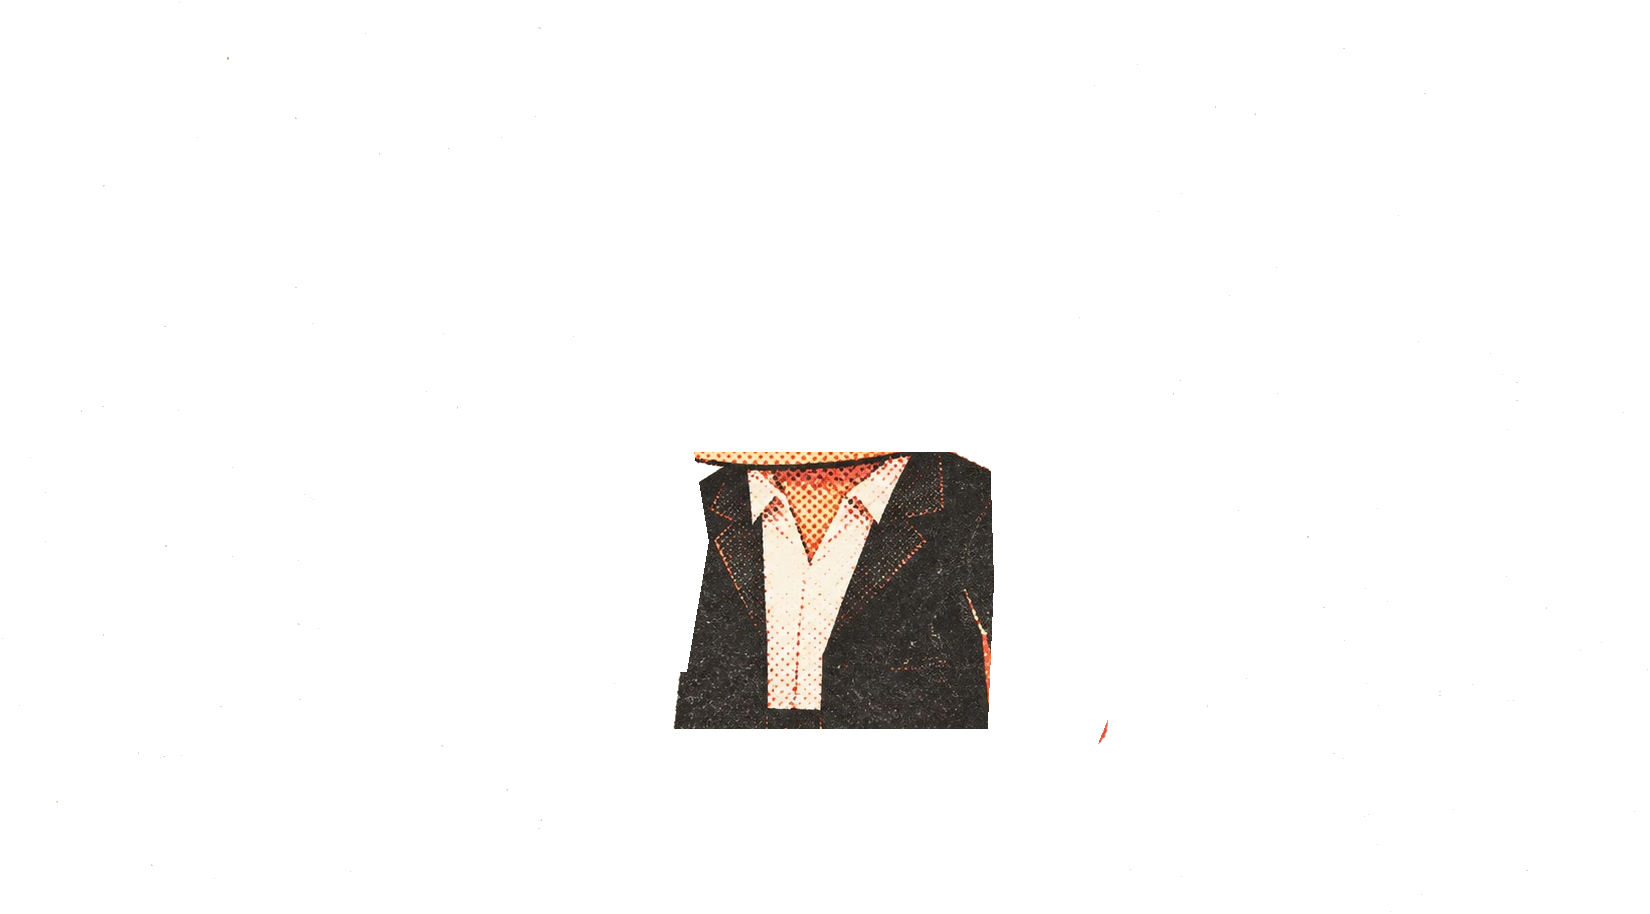
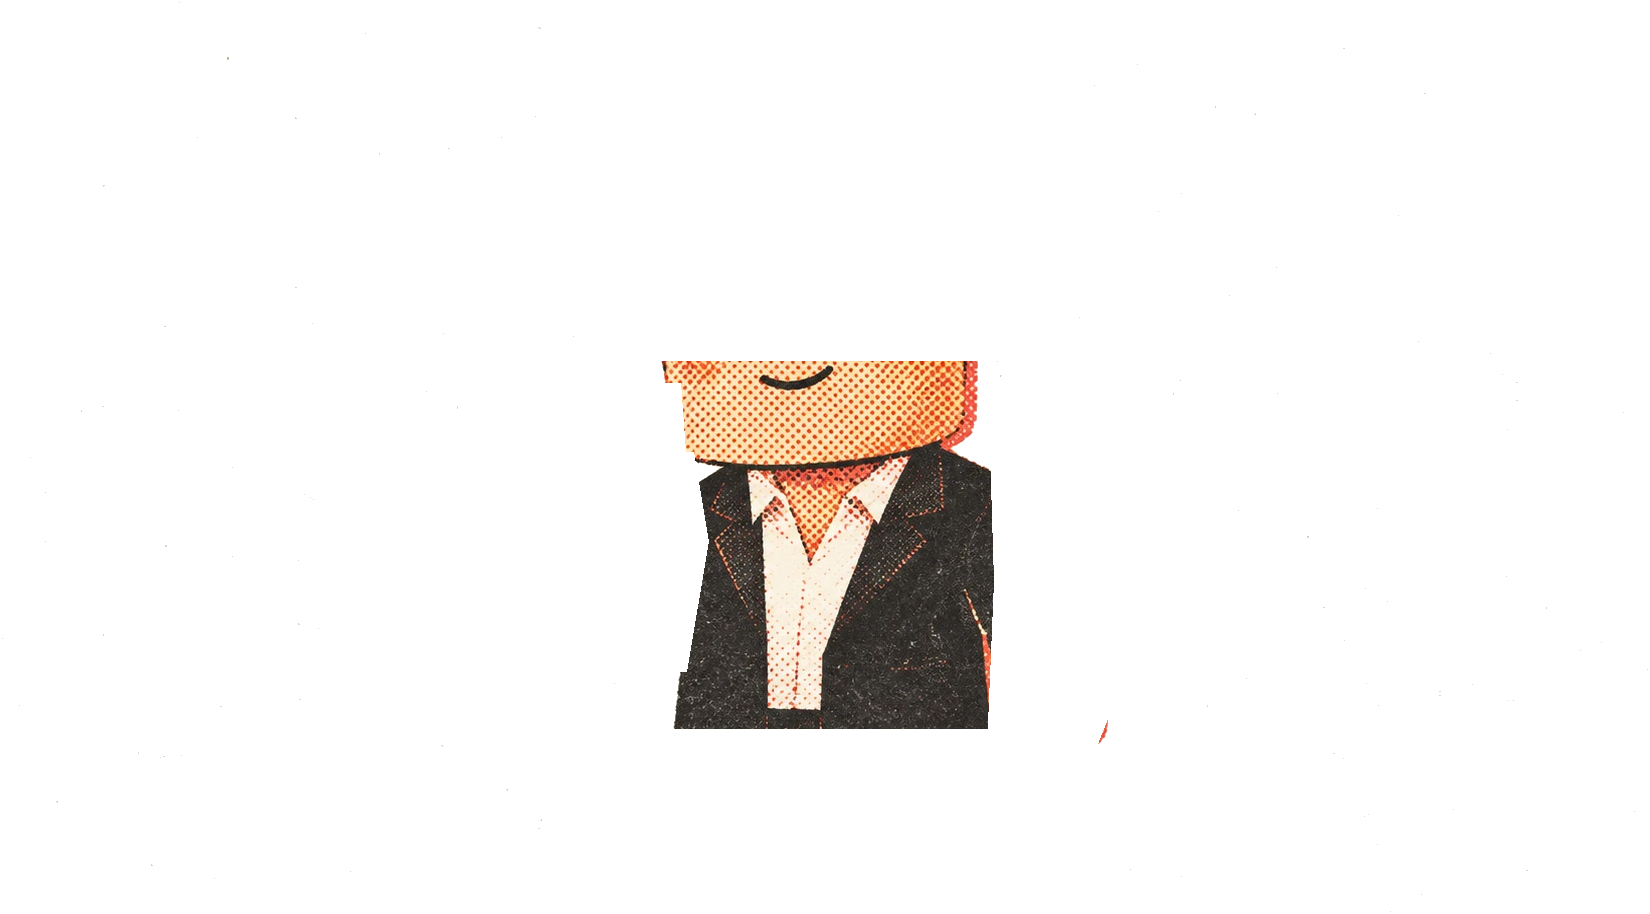
Fix see-through neck on the Jeff and Scammer puppets; lengthen the quiz
The torso parts now carry a hidden copy of the chin under the head, so a
head tilt no longer opens a slit along the cut (about 1,100 and 1,700
see-through pixels at the largest tilt, now 0); other parts unchanged.
The quiz moves to 7-bar rounds (flags every two beats, two-bar
takeaways, each phone slides in on its own beat): 58.75 s.

Claude-Session: https://claude.ai/code/session_011fNdEZx6swNX1pB5mU49YZ

Changed region(s): [[0.4018, 0.3676, 0.6182, 0.5208]]

diff --git a/intro/quiz.js b/intro/quiz.js
@@ -1,18 +1,19 @@
 'use strict';
-/* Rossen Reports: "SCAM OR LEGIT?" quiz. 42.5 s, 1080x1920 (9:16), 24 fps, one shot. Case-file screen-print look
+/* Rossen Reports: "SCAM OR LEGIT?" quiz. 58.75 s, 1080x1920 (9:16), 24 fps, one shot. Case-file screen-print look
    (printkit.js, the approved blue/black/cream/yellow inks) with the vertical kit (vertkit.js). 96 BPM, one idea per bar.
-   Each round is 5 bars: SHOW (1), PAUSE with a countdown (2), REVEAL: stamp + flags (1), TAKEAWAY (1).
+   Each round is 7 bars: SHOW (1; the phone slides in on beat 1), PAUSE with a countdown (2), REVEAL: the verdict on
+   beat 1 and a flag every two beats (2), TAKEAWAY (2).
 
-   bars 0-4    round 1  SCAM   unpaid toll text        flags PAY TODAY, SMALL FEE, LINK
-   bars 5-9    round 2  LEGIT  verification code       reasons YOU ASKED FOR IT, NO LINK, NO REQUEST
-   bars 10-14  round 3  SCAM   fraud alert, reply Y/N  flags URGENT, REPLY YES OR NO
-   bar 15-16   HOW MANY DID YOU GET RIGHT? COMMENT YOUR SCORE.; the rubber stamp lands on bar 16 beat 3
-   the official logo, untouched, still from 41.40 to 42.5
-   The phone never moves while there is something to read; it slides between rounds on the last beat of each round.
+   bars 0-6    round 1  SCAM   unpaid toll text        flags PAY TODAY, SMALL FEE, LINK
+   bars 7-13   round 2  LEGIT  verification code       reasons YOU ASKED FOR IT, NO LINK, NO REQUEST
+   bars 14-20  round 3  SCAM   fraud alert, reply Y/N  flags URGENT, REPLY YES OR NO
+   bars 21-22  the last phone slides out; HOW MANY DID YOU GET RIGHT?, the answers, COMMENT YOUR SCORE: 0, 1, 2 OR 3?
+   bar 23      the rubber stamp lands on beat 1; the official logo, untouched, still from 57.65 to 58.75
+   The phone never moves while there is something to read.
 */
-const DUR = at(17), NFR = Math.round(FPS * DUR);
+const DUR = at(23, 3), NFR = Math.round(FPS * DUR);
 const CAPS = [];   // this film draws its own top band
-const STAMP_T = at(16, 3);
+const END_B = 21, STAMP_T = at(23);
 
 // ================= the rounds =================
 const LINK = 'htp://tol1-pay.zz/b1ll?7x';   // obviously garbled, not a real address
@@ -21,16 +22,16 @@ const ROUNDS = [
     lines: ['Your vehicle has an', 'unpaid toll balance of', '$6.99. Pay today to', 'avoid late fees:', LINK],
     marks: [{ l: 2, s: 'Pay today', tag: 'PAY TODAY' }, { l: 2, s: '$6.99', tag: 'SMALL FEE' }, { l: 4, s: LINK, tag: 'LINK' }],
     take: ["DON'T CLICK.", 'CHECK YOUR TOLL', 'ACCOUNT YOURSELF.'] },
-  { b: 5, scam: false, from: 'Text Message',
+  { b: 7, scam: false, from: 'Text Message',
     lines: ['Your verification code', "is 482913. Don't share", 'this code with anyone.', ''],
     marks: [{ l: 1, s: '482913', tag: 'YOU ASKED FOR IT' }, { l: 3, s: null, tag: 'NO LINK' }, { l: 2, s: 'this code with anyone.', tag: 'NO REQUEST' }],
     take: ['NEVER READ A CODE', 'TO ANYONE WHO CALLS.'] },
-  { b: 10, scam: true, from: 'Account Alert',
+  { b: 14, scam: true, from: 'Account Alert',
     lines: ['FRAUD ALERT: $750', 'payment attempt.', 'Was this you?', 'Reply YES or NO.'],
     marks: [{ l: 0, s: 'FRAUD ALERT:', tag: 'URGENT' }, { l: 3, s: 'Reply YES or NO.', tag: 'REPLY YES OR NO' }],
     take: ["DON'T REPLY.", 'CALL THE NUMBER', 'ON YOUR CARD.'] },
 ];
-const R_SHOW = 0, R_PAUSE = 1, R_REVEAL = 3, R_TAKE = 4;   // bar offsets inside a round
+const R_SHOW = 0, R_PAUSE = 1, R_REVEAL = 3, R_TAKE = 5;   // bar offsets inside a round
 
 // ================= the phone =================
 const PH = { x: 100, y: 640, w: 760, h: 600 };
@@ -60,7 +61,7 @@ function markBox(c, R, m) {
   const sz = lineFit(c, s); c.font = `${sz}px ${FONT}`; const i = s.indexOf(m.s), x0 = c.measureText(s.slice(0, i)).width, x1 = x0 + c.measureText(m.s).width;
   return { x: BUB.x + BUB.pad + (x0 + x1) / 2, y, w: x1 - x0, h: sz };
 }
-function markT(R, i) { return at(R.b + R_REVEAL) + (i + 1) * BEAT; }
+function markT(R, i) { return at(R.b + R_REVEAL) + (i + 1) * 2 * BEAT; }   // beat 3, then beats 1 and 3 of the next bar
 function highlights(c, R, t) {   // a marker swiped left to right behind each flagged phrase, on its beat
   R.marks.forEach((m, i) => { if (!m.s) return; const u = easeOut(seg(t, markT(R, i) - SLAM, markT(R, i) + .12)); if (u <= 0) return;
     const b = markBox(c, R, m), x0 = b.x - b.w / 2 - 10, w = (b.w + 20) * u, y0 = b.y - b.h * .62, h = b.h * 1.2;
@@ -105,7 +106,7 @@ function scorecard(c, t, cur, y = 350, big = 1.22, t0 = -1) {
 // reveal the right one lights up and takes the stamp while the wrong one dims under an X
 const PAD = { y: 482, w: 330, h: 124, x: [SCX - 225, SCX + 225] };
 function pads(c, t, R, rn) {
-  const b = R.b, tp = at(b + R_PAUSE), tl = at(b + R_PAUSE + 1, 4), tr = at(b + R_REVEAL), shown = rn === 0 ? -1 : at(b) + E8;
+  const b = R.b, tp = at(b + R_PAUSE), tl = at(b + R_PAUSE + 1, 4), tr = at(b + R_REVEAL), shown = rn === 0 ? -1 : at(b, 2);   // after the slide
   if (t < shown - SLAM) return;
   ['SCAM', 'LEGIT?'].forEach((lab, i) => {
     const right = (i === 0) === R.scam, beat = Math.floor((t - tp) / BEAT), pulse = t >= tp && t < tl && beat % 2 === i ? 1 + .07 * Math.exp(-((t - tp) % BEAT) * 6) : 1;
@@ -124,7 +125,7 @@ function pads(c, t, R, rn) {
 function topBand(c, t, R, rn) {
   const b = R.b;
   if (t < at(b + R_TAKE) - SLAM) { scorecard(c, t, rn); pads(c, t, R, rn); }
-  else R.take.forEach((s, i) => chip(c, s, SCX, 356 + i * 104, 70, R.scam ? BLK : BLUE, CHIP, t, at(b + R_TAKE) + i * E8, i % 2 ? .012 : -.012));
+  else R.take.forEach((s, i) => chip(c, s, SCX, 356 + i * 104 + (t > at(b + R_TAKE, 2) ? 3 * Math.sin((t - at(b + R_TAKE)) * TAU / (2 * BEAT) + i) : 0), 70, R.scam ? BLK : BLUE, CHIP, t, at(b + R_TAKE) + i * E8, i % 2 ? .012 : -.012));
 }
 // ================= the bottom band: countdown, then the labelled flags =================
 function countdown(c, t, R) {
@@ -194,24 +195,27 @@ function sceneRounds(c, t) {
   bgDots(c, BLUE, .08, .45);
   const rn = roundAt(t), R = ROUNDS[rn];
   // the slide to the next round: the last beat of the takeaway bar
-  const sw = at(R.b + R_TAKE, 4), u = easeIO(seg(t, sw, sw + BEAT)), next = rn + 1 < ROUNDS.length;
   host(c, t, rn);   // behind the labels, so he never covers a tag
-  if (t < sw) { stage(c, t, rn, 0); topBand(c, t, R, rn); countdown(c, t, R); }
-  else { stage(c, t, rn, -1250 * u); if (next) stage(c, at(ROUNDS[rn + 1].b), rn + 1, 1250 * (1 - u)); }
+  if (rn > 0 && t < at(R.b, 2)) {   // beat 1 of a new round: the last phone slides out as the new one slides in
+    const u = easeIO(seg(t, at(R.b), at(R.b, 2)));
+    stage(c, t, rn - 1, -1250 * u); stage(c, t, rn, 1250 * (1 - u)); scorecard(c, t, rn);
+  } else { stage(c, t, rn, 0); topBand(c, t, R, rn); countdown(c, t, R); }
 }
-function sceneEnd(c, t) {   // bars 15-16
+function sceneEnd(c, t) {   // bars 21-22
   bgDots(c, BLUE, .12, .55);
-  const [sx, sy] = shake(t, [[at(15), 14], [at(15, 2), 12]]), beatPulse = t > at(16) ? 1 + .025 * Math.max(0, Math.cos((t - at(16)) * TAU / BEAT)) : 1;
-  const th = easeOutBack(seg(t, at(15, 2.5), at(15, 3)));
-  jeffUp(c, t, at(15, 1.5), SCX, { armR: lerp(0, -2.5, th), prop: th > .6 ? 'thumb' : null, head: t > at(16) ? .05 * Math.sin((t - at(16)) * TAU / (2 * BEAT)) : 0 }, .7);
+  const E = END_B, [sx, sy] = shake(t, [[at(E, 2), 14], [at(E, 3), 12]]), beatPulse = t > at(E + 1) ? 1 + .025 * Math.max(0, Math.cos((t - at(E + 1)) * TAU / BEAT)) : 1;
+  if (t < at(E, 2)) { const u = easeIO(seg(t, at(E), at(E, 2)));   // round 3 slides out, the host with it
+    c.save(); c.translate(-1250 * u, 0); host(c, t, ROUNDS.length - 1); c.restore(); stage(c, t, ROUNDS.length - 1, -1250 * u); }
+  const th = easeOutBack(seg(t, at(E, 3), at(E, 3.5)));
+  jeffUp(c, t, at(E, 2.5), SCX, { armR: lerp(0, -2.5, th), prop: th > .6 ? 'thumb' : null, head: t > at(E + 1) ? .05 * Math.sin((t - at(E + 1)) * TAU / (2 * BEAT)) : 0 }, .7);
   c.save(); c.translate(sx, sy);
-  stampFit(c, 'HOW MANY DID', BLK, 140, SCX, 400, -.04, .95 * beatPulse, t, at(15), 840, 1.25);
-  stampFit(c, 'YOU GET RIGHT?', BLK, 140, SCX, 560, .03, .95 * beatPulse, t, at(15, 1.5), 840, 1.25);
-  scorecard(c, t, -1, 722, 1.55, at(15, 2));   // the answers: SCAM, LEGIT, SCAM
-  stampFit(c, 'COMMENT YOUR SCORE:', BLUE, 120, SCX, 885, -.03, 1 * beatPulse, t, at(15, 2.5), 840, 1.25);
-  chip(c, '0, 1, 2 OR 3?', SCX, 1040, 92, BLK, CHIP, t, at(15, 2.5) + .01, .02);
+  stampFit(c, 'HOW MANY DID', BLK, 140, SCX, 400, -.04, .95 * beatPulse, t, at(E, 2), 840, 1.25);
+  stampFit(c, 'YOU GET RIGHT?', BLK, 140, SCX, 560, .03, .95 * beatPulse, t, at(E, 2.5), 840, 1.25);
+  scorecard(c, t, -1, 722, 1.55, at(E, 3));   // the answers: SCAM, LEGIT, SCAM
+  stampFit(c, 'COMMENT YOUR SCORE:', BLUE, 120, SCX, 885, -.03, 1 * beatPulse, t, at(E, 3.5), 840, 1.25);
+  chip(c, '0, 1, 2 OR 3?', SCX, 1040, 92, BLK, CHIP, t, at(E, 3.5) + .01, .02);
   c.restore();
-  const d = seg(t, at(16, 2.5), STAMP_T); if (d > 0) screenSpace(c, () => rubberStamp(c, easeIn(d)));   // a full bar of END text first
+  const d = seg(t, at(E + 1, 3.5), STAMP_T); if (d > 0) screenSpace(c, () => rubberStamp(c, easeIn(d)));   // over a bar of END text first
 }
 function sceneSignoff(c, t) {
   paperBg(c);
@@ -223,7 +227,7 @@ function sceneSignoff(c, t) {
 }
 function drawScene(c, t) {
   contentT(c);
-  if (t < at(15)) sceneRounds(c, t);   // the last phone slides out on the final beat of round 3
+  if (t < at(END_B)) sceneRounds(c, t);
   else if (t < STAMP_T) sceneEnd(c, t);
   else { resetT(c); sceneSignoff(c, t); return; }   // screen space; no print finish over the official logo
   printFinish(c);

diff --git a/intro/score_quiz.py b/intro/score_quiz.py
@@ -1,6 +1,6 @@
 """Soundtrack for the Rossen Reports "SCAM OR LEGIT?" quiz (rossen-scam-or-legit.html). Recorded samples only, no synthesis.
 
-Music: an original 42.5 s cue sequenced from VSCO 2 Community Edition / VSCO 1 orchestral and drum samples (CC0), on the
+Music: an original 58.75 s cue sequenced from VSCO 2 Community Edition / VSCO 1 orchestral and drum samples (CC0), on the
 same 96 BPM grid and instruments as the case-file videos. Foley: Kenney CC0 packs (Interface, Impact, RPG, Casino, and
 two stings from Digital Audio for the right/wrong answer), placed by attack on the frame where its picture lands.
 Each round: a fanfare on SHOW, a ticking clock under the 2-bar countdown, a buzzer or a chime on the reveal, one
@@ -9,7 +9,7 @@ marker swipe per flag, then the takeaway.
 usage: python3 score_quiz.py [samples_dir]  ->  out/rossen-scam-or-legit/score.wav
 """
 import numpy as np, subprocess, wave, sys, os, re, glob, math
-SR = 48000; DUR = 42.5
+SR = 48000; DUR = 58.75
 ROOT = sys.argv[1] if len(sys.argv) > 1 else os.path.join(os.path.dirname(os.path.abspath(__file__)), 'audio')
 out = np.zeros((int(SR * DUR), 2), np.float32)
 _cache = {}
@@ -159,15 +159,17 @@ CH['Gm'] = (['D4', 'G4', 'Bb3'], ['G1', 'D2'], ['G2', 'Bb2'], 'G1')
 CROOT = {'Dm': 'D2', 'D': 'D2', 'Bb': 'Bb1', 'Gm': 'G2', 'G': 'G2', 'A': 'A1', 'Bm': 'B1', 'Em': 'E2'}
 VOX = {'Dm': ('D3', 'F3', 'A3'), 'D': ('D3', 'F#3', 'A3'), 'Bb': ('D3', 'F3', 'Bb3'), 'Gm': ('D3', 'G3', 'Bb3'), 'G': ('D3', 'G3', 'B3'),
        'A': ('C#3', 'E3', 'A3'), 'Bm': ('D3', 'F#3', 'B3'), 'Em': ('E3', 'G3', 'B3')}
-ROUNDS = [(0, True, 3), (5, False, 3), (10, True, 2)]    # first bar, scam?, number of flags
-END = AT(16, 3)                                          # the rubber stamp lands; the official logo is under it
+ROUNDS = [(0, True, 3), (7, False, 3), (14, True, 2)]    # first bar, scam?, number of flags; 7 bars a round
+END_B = 21; END = AT(23)                                 # the end card, and the rubber stamp landing on the official logo
 chords = {}
 for b, scam, n in ROUNDS:
     chords[b] = 'D D G A'; chords[b + 1] = 'Bm Bm G G'; chords[b + 2] = 'Em Em A A'
-    chords[b + 3] = 'Dm Dm Bb A' if scam else 'D D G D'; chords[b + 4] = 'G G A A'
-chords[15] = 'D D G A'; chords[16] = 'D D'
-for bar in range(17 if not HO else 0):
-    groove(BB(bar), BB(bar + 1) if bar < 16 else BB(16, 3), .7 if bar not in (1, 2, 6, 7, 11, 12) else .5, .12)
+    chords[b + 3] = 'Dm Dm Bb A' if scam else 'D D G D'; chords[b + 4] = 'Bb Bb A A' if scam else 'G G A A'
+    chords[b + 5] = 'G G A A'; chords[b + 6] = 'Bm Bm A A'
+chords[END_B] = 'D D G A'; chords[END_B + 1] = 'D D A A'
+QUIET = {b + k for b, _, _ in ROUNDS for k in (1, 2)}   # the groove steps back while the viewer thinks
+for bar in range(END_B + 2 if not HO else 0):
+    groove(BB(bar), BB(bar + 1), .5 if bar in QUIET else .7, .12)
 for bar, row in (chords.items() if not HO else []):
     for k, ch in enumerate(row.split()):
         bb = BB(bar, k + 1)
@@ -178,42 +180,46 @@ for bar, row in (chords.items() if not HO else []):
 def capsnd(t, notes=('D5', 'A5')): xyl(notes[0], t, .45); fx('casino/card-place-1.ogg', t, .15); xyl(notes[1], t + E8, .4); fx('casino/card-place-2.ogg', t + E8, .13)
 
 for ri, (b, scam, n) in enumerate(ROUNDS):
-    # SHOW: the round fanfare (the message lands; round 1 is already there on frame 1)
+    # SHOW: round 1 is already on screen on frame 1; later rounds slide in over beat 1 and land on beat 2
     if ri == 0: hit(0.0, 'D', .9, .45); fx('interface/glass_001.ogg', 0.0, .5)
-    else: fx('casino/card-slide-3.ogg', AT(b) - .3, .35); hit(AT(b), 'D', .85, .4); fx('rpg/bookPlace1.ogg', AT(b), .35); capsnd(AT(b))
-    for bb, nt, d in [(1.5, 'D4', .15), (2, 'F#4', .15), (2.5, 'A4', .15), (3, 'D5', .4)]: tps(nt, AT(b, bb), .75, dur=d)
+    else: fx('casino/card-slide-3.ogg', AT(b) + .05, .35); hit(AT(b, 2), 'D', .85, .4); fx('rpg/bookPlace1.ogg', AT(b, 2), .35); capsnd(AT(b, 2))
+    for bb, nt, d in [(2.5, 'D4', .15), (3, 'F#4', .15), (3.5, 'A4', .15), (4, 'D5', .4)]: tps(nt, AT(b, bb), .75, dur=d)
     if ri == 0: fx('interface/pluck_001.ogg', AT(0, 2), .3)                                           # Jeff pops up
-    # PAUSE: two bars of clock, the last three beats climb
+    # PAUSE: two bars of clock, the last three beats climb, LOCK IT IN! on the last
     for k in range(8 if not HO else 0):
         tt = AT(b + 1) + k * BEAT; fx('interface/tick_002.ogg', tt, .5); one(CLAVE, tt, .22); fx('interface/tick_001.ogg', tt + E8, .28)
-        if k >= 5: xyl(('A5', 'B5', 'C#6')[k - 5], tt, .55); glk(('A5', 'B5', 'C#6')[k - 5], tt, .3)
+        if 5 <= k < 7: xyl(('A5', 'B5')[k - 5], tt, .55); glk(('A5', 'B5')[k - 5], tt, .3)
     roll_to(AT(b + 2, 3), AT(b + 2, 4), .4)
     tl = AT(b + 2, 4); fx('rpg/metalLatch.ogg', tl, .55); stab(tl, 'A', .75); timp(tl, .6); roll_to(tl + .05, AT(b + 3), .3)   # LOCK IT IN!
     fx('casino/card-place-1.ogg', AT(b + 3) + .1, .3); glk('A6', AT(b + 3) + .1, .3)                                  # the scorecard flips
-    # REVEAL: stamp + answer sting, then one marker swipe per flag
+    # REVEAL: the verdict on beat 1, then one highlighter swipe every two beats
     t0 = AT(b + 3)
     if scam: hit(t0, 'Dm', 1.0, .3); fx('impact/impactPunch_heavy_001.ogg', t0, .55); fx('interface/error_004.ogg', t0, .35); fx('digital/lowThreeTone.ogg', t0, .22)
     else: hit(t0, 'D', 1.0, .3); fx('interface/confirmation_002.ogg', t0, .45); fx('digital/threeTone1.ogg', t0, .22); [glk(nt, t0 + k * S16, .45) for k, nt in enumerate(('D6', 'F#6', 'A6'))]
     if scam: fx('interface/switch_007.ogg', t0, .35); [cla(nt, t0 + .05 + k * S16 / 2, .45, dur=.08) for k, nt in enumerate(('A4', 'Bb4', 'A4', 'Bb4'))]   # caught in the spotlight
     for i in range(n):
-        tt = AT(b + 3, 2 + i); fx('interface/scratch_004.ogg', tt, .4, (-.2, .2)[i % 2]); fx('casino/card-place-2.ogg', tt, .25); kick(tt, .75); one(RIM, tt, .5, .1);   # each flag lands hard xyl(('F5', 'A5', 'D6')[i] if scam else ('F#5', 'A5', 'D6')[i], tt, .5)
-    # TAKEAWAY: the lines land; in scam rounds the vaudeville hook yanks him off
-    t1 = AT(b + 4); stab(t1, 'G', .7); capsnd(t1, ('D5', 'G5')); kick(t1, .8); fx('impact/impactSoft_medium_000.ogg', t1, .4)   # every takeaway lands the same way
+        tt = t0 + (i + 1) * 2 * BEAT   # the same beats as markT() in quiz.js
+        fx('interface/scratch_004.ogg', tt, .4, (-.2, .2)[i % 2]); fx('casino/card-place-2.ogg', tt, .25); kick(tt, .75); one(RIM, tt, .5, .1)   # each flag lands hard
+        xyl(('F5', 'A5', 'D6')[i] if scam else ('F#5', 'A5', 'D6')[i], tt, .5)
+    # TAKEAWAY (2 bars): the lines land; in scam rounds the vaudeville hook yanks him off
+    t1 = AT(b + 5); stab(t1, 'G', .7); capsnd(t1, ('D5', 'G5')); kick(t1, .8); fx('impact/impactSoft_medium_000.ogg', t1, .4)   # every takeaway lands the same way
     if scam: fx('rpg/cloth3.ogg', t1 - .1, .4); [cla(nt, t1 + .05 + k * S16 / 2, .5, dur=.1) for k, nt in enumerate(('D5', 'A4', 'F4', 'D4'))]
-    fx('casino/card-slide-3.ogg', AT(b + 4, 4), .35); swell_to(AT(b + 5), .3)                         # the slide to the next round
-# END: HOW MANY DID YOU GET RIGHT? COMMENT YOUR SCORE.
-hit(AT(15), 'D', 1.0, .6); fx('impact/impactPunch_heavy_000.ogg', AT(15), .5)
-hit(AT(15, 1.5), 'D', .8, .3); fx('impact/impactPunch_heavy_001.ogg', AT(15, 1.5), .4)
-hit(AT(15, 2), 'G', .9, .4); fx('impact/impactPunch_heavy_002.ogg', AT(15, 2), .45)
-for i, nt in enumerate(('D5', 'A5', 'D6')): fx('casino/card-place-2.ogg', AT(15, 2) + i * S16, .3); xyl(nt, AT(15, 2) + i * S16, .45)   # the answers recap
-hit(AT(15, 2.5), 'A', .9, .4); fx('impact/impactPunch_heavy_000.ogg', AT(15, 2.5), .45)
-for bb, nt, d in [(3, 'D4', .15), (3.5, 'D4', .28), (4, 'F#4', .28)]: tps(nt, AT(15, bb), .8, dur=d)
-for bb, nt, d in [(1, 'A4', .5), (1.5, 'D5', .3)]: tps(nt, AT(16, bb), .8, dur=d)
-roll_to(AT(16, 2), END, .45, TIMP_ROLL); tomfill(AT(16, 2.5), END, .45, S16)
+    for bb, nt, d in [(1, 'A4', .28), (1.5, 'F#4', .15), (2, 'G4', .28), (3, 'A4', .55)]: tps(nt, AT(b + 6, bb), .6, dur=d)   # the second takeaway bar breathes
+    swell_to(AT(b + 7), .3)                                                                           # into the next round
+# END: the last phone slides out on beat 1, then HOW MANY DID YOU GET RIGHT? ... 0, 1, 2 OR 3?
+E = END_B
+fx('casino/card-slide-3.ogg', AT(E) + .05, .35)
+hit(AT(E, 2), 'D', 1.0, .6); fx('impact/impactPunch_heavy_000.ogg', AT(E, 2), .5)
+hit(AT(E, 2.5), 'D', .8, .3); fx('impact/impactPunch_heavy_001.ogg', AT(E, 2.5), .4)
+hit(AT(E, 3), 'G', .9, .4); fx('impact/impactPunch_heavy_002.ogg', AT(E, 3), .45)
+for i, nt in enumerate(('D5', 'A5', 'D6')): fx('casino/card-place-2.ogg', AT(E, 3) + i * S16, .3); xyl(nt, AT(E, 3) + i * S16, .45)   # the answers recap
+hit(AT(E, 3.5), 'A', .9, .4); fx('impact/impactPunch_heavy_000.ogg', AT(E, 3.5), .45)
+for bb, nt, d in [(1, 'D4', .15), (1.5, 'D4', .28), (2, 'F#4', .28), (3, 'A4', .5), (3.5, 'D5', .3)]: tps(nt, AT(E + 1, bb), .8, dur=d)
+roll_to(AT(E + 1, 3), END, .45, TIMP_ROLL); tomfill(AT(E + 1, 3.5), END, .45, S16)                   # the rubber stamp comes down
 t = END
-for nt in ('D4', 'F#4', 'A4'): tpl(nt, t, .95, dur=1.0, rel=.2)
-for nt in ('D2', 'F#2', 'A2'): hnl(nt, t, .9, dur=1.0, rel=.2)
-for nt in ('D2', 'A1'): tbl(nt, t, .85, dur=1.0, rel=.2)
+for nt in ('D4', 'F#4', 'A4'): tpl(nt, t, .95, dur=1.2, rel=.3)
+for nt in ('D2', 'F#2', 'A2'): hnl(nt, t, .9, dur=1.2, rel=.3)
+for nt in ('D2', 'A1'): tbl(nt, t, .85, dur=1.2, rel=.3)
 cbp('D1', t, 1.0); cpz('D2', t, .9); timp(t, 1.0); kick(t, 1.0); one(CRASH, t, .6); glk('D6', t, .55)
 fx('impact/impactPlank_medium_000.ogg', t, .55); fx('impact/impactSoft_heavy_000.ogg', t, .4)
 

diff --git a/intro/tools/cut_casefile_jeff.py b/intro/tools/cut_casefile_jeff.py
@@ -34,6 +34,10 @@ masks = {k: poly_mask(v) & jeff for k, v in P.items()}
 used = np.zeros_like(jeff)
 for k in ('head', 'armL', 'armR', 'legL', 'legR'): masks[k] &= ~used; used |= masks[k]
 masks['torso'] = jeff & ~used
+# a hidden copy of the chin and jaw on the torso, under the head: at rest the head covers it exactly; when the head
+# tilts it fills the slit that would otherwise open along the cut and let the background show through
+yy = np.arange(H)[:, None] + np.zeros((1, W), int)
+masks['torso'] |= masks['head'] & (yy >= 380)   # the jaw and chin only, below the cheeks
 PIV = {'head': (842, 468), 'armL': (706, 520), 'armR': (1012, 512), 'legL': (752, 752), 'legR': (948, 752), 'torso': (850, 745)}
 meta = {'ref': [W, H], 'parts': {}}
 for k, m in masks.items():

diff --git a/intro/tools/cut_scammer.py b/intro/tools/cut_scammer.py
@@ -42,6 +42,7 @@ head = poly([(535, 195), (1020, 195), (1020, 420), (975, 440), (968, 545), (600,
 legL = poly([(600, 792), (800, 792), (800, 860), (600, 860)]) & body & ~rod
 legR = poly([(800, 792), (1000, 792), (1000, 860), (800, 860)]) & body & ~rod
 torso = (body | hole) & ~head & ~legL & ~legR & ~(rod & ~coat)
+torso |= head & (np.arange(H)[:, None] >= 470)   # a hidden copy of the chin under the head, so a head tilt never opens a slit
 masks = {'legL': legL, 'legR': legR, 'torso': torso, 'rod': rod, 'head': head}
 PIV = {'head': (790, 545), 'rod': (905, 662), 'legL': (700, 792), 'legR': (900, 792), 'torso': (800, 835)}
 meta = {'ref': [W, H], 'feet': [800, 835], 'tip': [1232, 230], 'parts': {}}
